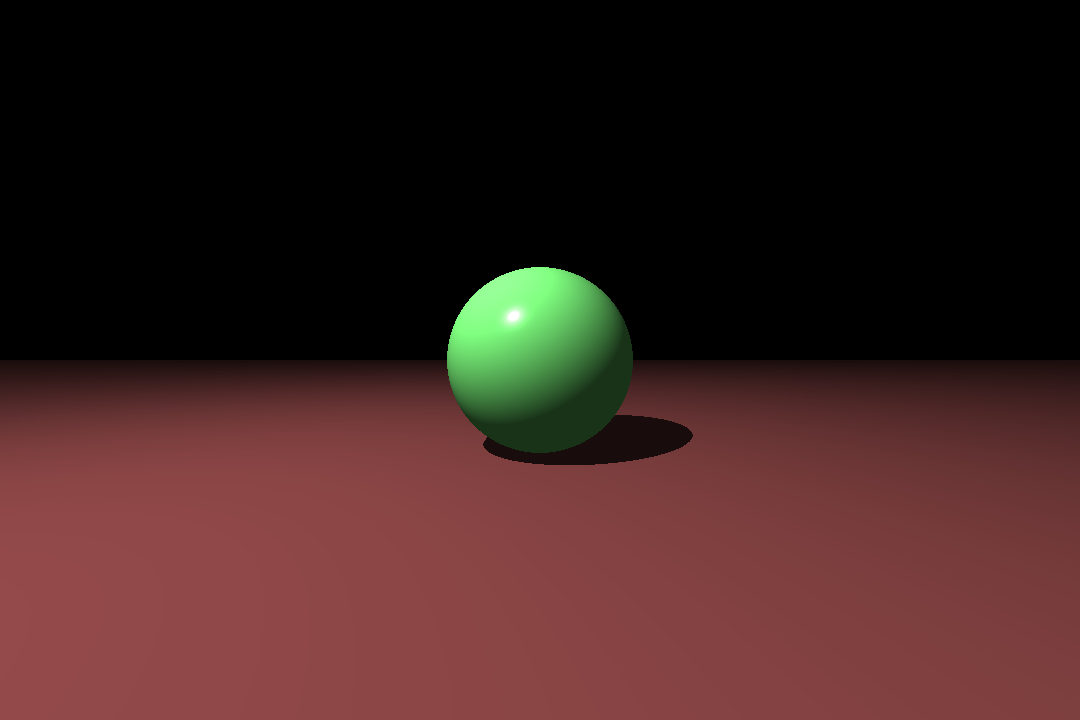
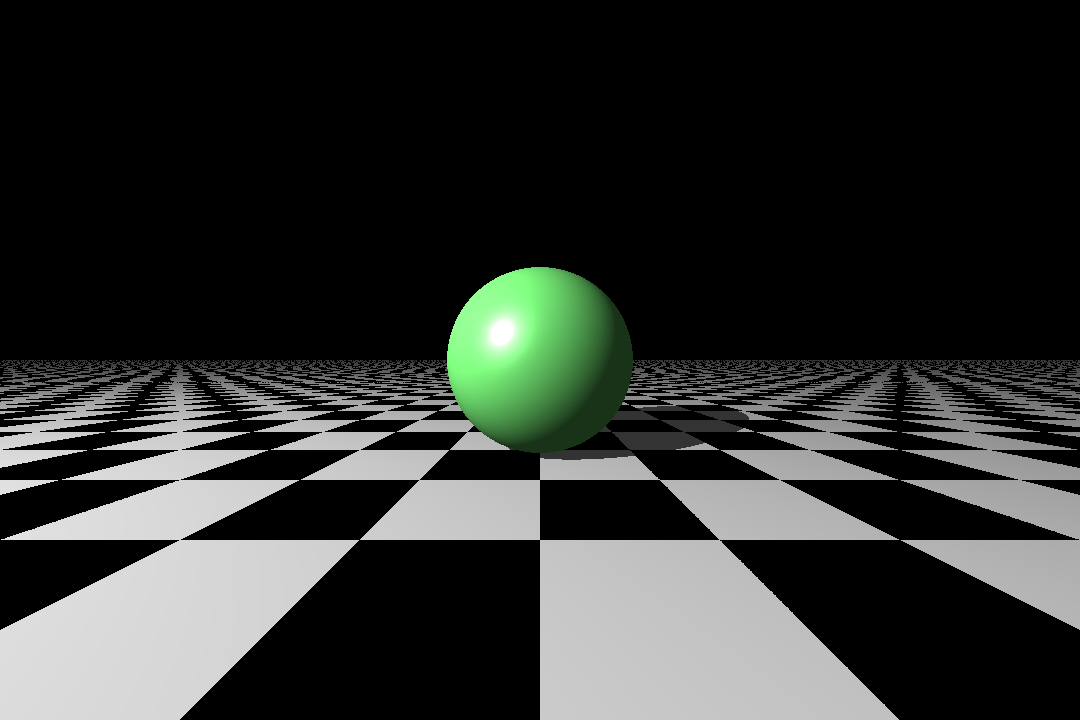
checkered floor added -- made mistake with getColor() method..

diff --git a/main.cpp b/main.cpp
@@ -91,11 +91,25 @@ int findClosestObjIndex(std::vector<double>& intersections) {
 Color getColorAt(glm::vec3 intersectionPos, glm::vec3 intersectingRayDir,
 	std::vector<LightSources*>& sources, std::vector<Object*> objects,
 	int closestIdx, float ambientLightConst) {
+
+
+	if (objects[closestIdx]->getColor().getColorSpecial() == 2.0f) {
+		
+		int squareTile = floor(intersectionPos.x) + floor(intersectionPos.z);
+		if (squareTile % 2 == 0) {
+			objects[closestIdx]->setColor(0.0f, 0.0f, 0.0f);
+		}
+		else {
+			objects[closestIdx]->setColor(1.0f, 1.0f, 1.0f);
+		}
+	}
+
 	// get closest object color 
 	Color finalColor = objects[closestIdx]->getColor() * ambientLightConst;
 	glm::vec3 objectNormal = objects[closestIdx]->getNormal(intersectionPos);
 
-	// iterate thru all light sources
+	//finalColor = finalColor * ambientLightConst;
+ 	// iterate thru all light sources
 	for (int k = 0; k < sources.size(); k++) {
 		glm::vec3 lightPos = sources[k]->getLightPos();
 		glm::vec3 lightDir = normalize(lightPos - intersectionPos);
@@ -108,7 +122,7 @@ Color getColorAt(glm::vec3 intersectionPos, glm::vec3 intersectingRayDir,
 		// hits the surface, so we attempt to trace to light source. Else, no light 
 		// hits it, we darken it with a scalar multip?..
 		if (cos_theta > 0) {
-			bool shadowed = false;
+			//bool shadowed = false;
 			// find distance from intersection pt to light source
 			float intersection_to_light_dist = distance(intersectionPos, lightPos);
 			// Cast 2ndary rays and do intersection test: 
@@ -183,7 +197,7 @@ int main(int argc, char* argv[]) {
 	options.height= 720;
 	options.aspectRatio = (float)options.width / (float)options.height;
 	options.fov = M_PI * (90.0f / 180.0f); 
-	options.ambientLight = 0.2;
+	options.ambientLight = 0.2f;
 
 	// initializing all pixels to default value (color buffer)
 	RGBColor* colorBuffer = new RGBColor[options.width*options.height];
@@ -195,15 +209,19 @@ int main(int argc, char* argv[]) {
 
 	// Colors
 	Color whiteLight(1.0f, 1.0f, 1.0f, 0.0f);
-	Color maroon(.5f, .25f, .25f, 0.0f);
-	Light theLight(glm::vec3(-3.0f, 5.0f, 0.0f), whiteLight);
+	// special value of flooring set to 2
+	Color maroon(.5f, .25f, .25f, 2.0f);
+	Color white(1.0f, 1.0f, 1.0f, 2.0f);
 	Color prettyGreen(0.5f, 1.0f, 0.5f, 0.5f);
 	Color gray(.5f, .5f, .5f, .0f);
 	Color black(.0f, .0f, .0f, .0f);
 
+	// Lights
+	Light theLight(glm::vec3(-7.0f, 5.0f, -3.0f), whiteLight);
+
 	// Objects
 	Sphere scene_sphere(glm::vec3(.0f, .0f, 4.0f), 1.0f, prettyGreen);
-	Plane plane(glm::vec3(.0f, 1.0f, .0f), glm::vec3(.0f, -1.0f, .0f), maroon);
+	Plane plane(glm::vec3(.0f, 1.0f, .0f), glm::vec3(.0f, -1.0f, .0f), white);
 
 	// Generating Camera  
 	glm::vec3 cameraPos(.0f, .0f, 0.0f);

diff --git a/Sphere.cpp b/Sphere.cpp
@@ -19,6 +19,11 @@ glm::vec3 Sphere::getSpherePos() {
 Color Sphere::getColor() {
 	return color;
 }
+void Sphere::setColor(float r, float g, float b) {
+	this->color.setColorR(r);
+	this->color.setColorG(g);
+	this->color.setColorB(b);
+}
 
 float Sphere::getSphereRadius() {
 	return radius;

diff --git a/Plane.cpp b/Plane.cpp
@@ -46,3 +46,9 @@ glm::vec3 Plane::getPlaneCenter() {
 Color Plane::getColor() {
 	return color;
 }
+
+void Plane::setColor(float r, float g, float b) {
+	this->color.setColorR(r);
+	this->color.setColorG(g);
+	this->color.setColorB(b);
+}

diff --git a/Object.cpp b/Object.cpp
@@ -11,6 +11,10 @@ Color Object::getColor() {
 	return Color(.0f, .0f, .0f, 0);
 }
 
+void Object::setColor(float r, float g, float b) {
+	// empty body
+}
+
 glm::vec3 Object::getNormal(glm::vec3 point)
 {
 	return glm::vec3(.0f);

diff --git a/Sphere.h b/Sphere.h
@@ -19,6 +19,7 @@ public:
 
 	glm::vec3 getSpherePos();
 	Color getColor();
+	void setColor(float r, float g, float b);
 	float getSphereRadius();
 	glm::vec3 getNormal(glm::vec3 point);
 	double findIntersection(Ray ray);

diff --git a/Object.h b/Object.h
@@ -12,7 +12,7 @@ public:
 	virtual double findIntersection(Ray ray);
 
 	virtual Color getColor();
-
+	virtual void setColor(float r, float g, float b);
 	virtual glm::vec3 getNormal(glm::vec3 point);
 };
 

diff --git a/Plane.h b/Plane.h
@@ -20,6 +20,8 @@ public:
 
 	glm::vec3 getNormal(glm::vec3 point);
 	Color getColor();
+	void setColor(float r, float g, float b);
+
 	glm::vec3 getPlaneCenter(); 
 	
 	double findIntersection(Ray ray);
